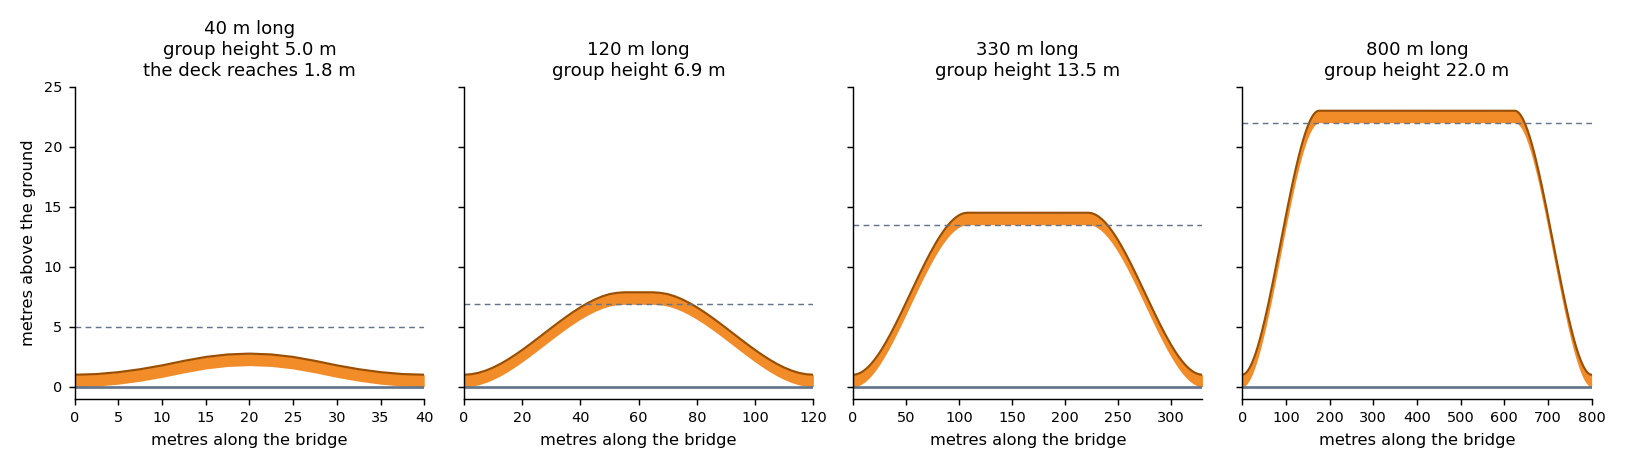
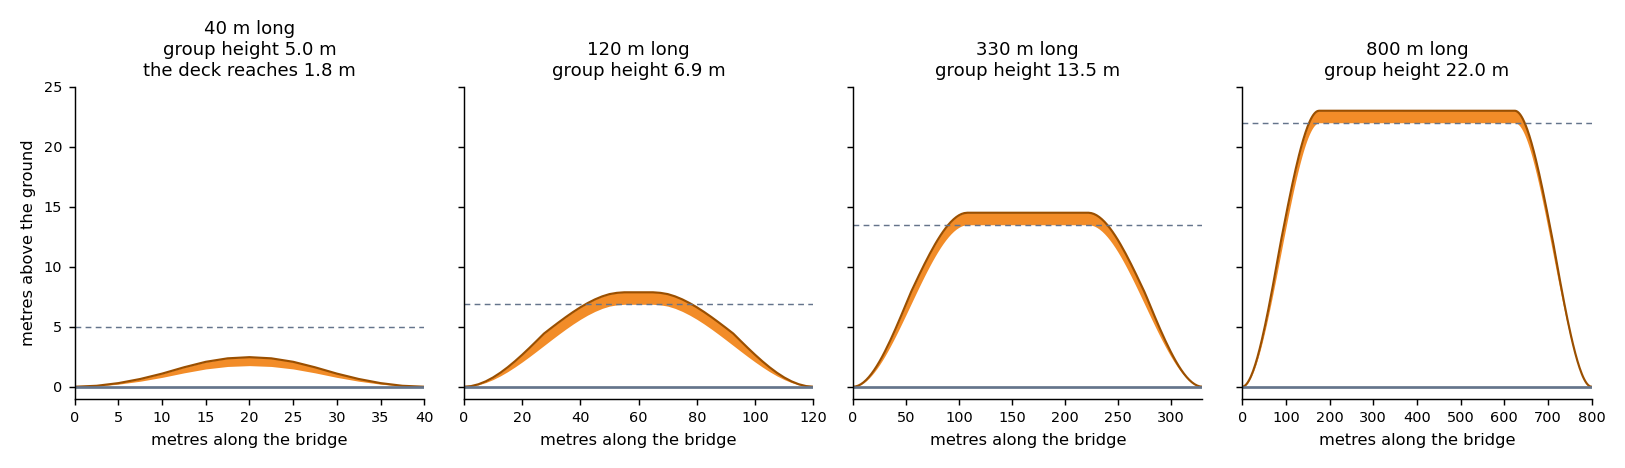
Bridge height page: the format of the profile, the formulas and the rules of an edit step
A real example of the profile (one piece with its polygon, and a table of pieces),
the formulas of each step, a worked example, the terrain formula of the page,
and what can change a profile. A test calculates the lift of every piece of four
bridges with the formulas of the page and compares it with the engine. The figure
shows the deck thin out at the ground, as the page draws it.

diff --git a/tests/test_render_web.py b/tests/test_render_web.py
@@ -2645,13 +2645,17 @@ def test_web_vehicles_option_and_look():
     assert _opt(render_edges(_edges(), backend="web").html, "vehicles") is None
 
 
-def _straight_bridge(length_m, **kw):
-    """The deck pieces of one straight bridge of `length_m` metres (no casing slabs), in order along it, with the settings of `kw`."""
+def _bridge_source_features(length_m, **kw):
+    """All the features of the source `decks` of one straight bridge of `length_m` metres (a deck piece, then its two casing slabs), in the order of the source."""
     import math
     dlon = length_m / (111320 * math.cos(math.radians(43.74)))
     g = gpd.GeoDataFrame({"highway": ["primary"], "bridge": ["yes"], "layer": ["1"], "edge_id": [1]}, geometry=[LineString([(7.42, 43.74), (7.42 + dlon, 43.74)])], crs=4326)
-    html = render_edges(g, backend="web", view_3d=True, **kw).html
-    pieces = [f["properties"] for f in _style(html)["sources"]["decks"]["data"]["features"] if not f["properties"].get("__rs_casing_slab")]
+    return _style(render_edges(g, backend="web", view_3d=True, **kw).html)["sources"]["decks"]["data"]["features"]
+
+
+def _straight_bridge(length_m, **kw):
+    """The deck pieces of one straight bridge (no casing slabs): their properties, in order along it, with the settings of `kw`."""
+    pieces = [f["properties"] for f in _bridge_source_features(length_m, **kw) if not f["properties"].get("__rs_casing_slab")]
     return sorted(pieces, key=lambda p: p["__rs_s0"])
 
 
@@ -2660,15 +2664,66 @@ def _flat_part_starts(length_m, **kw):
     return min(p["__rs_s0"] for p in _straight_bridge(length_m, **kw) if p["__rs_lift0"] >= 0.999) * length_m
 
 
+def _lift_of_the_page(x, ell, ramp, lift_head=0.0, lift_tail=0.0, k=0.4):
+    """The lift at the distance x along a chain of ell metres, by the formulas of docs/guides/bridge-height.md (step 5): a and b, the smooth minimum with the weight w, the smoothstep."""
+    def clamp(v, lo, hi):
+        return max(lo, min(hi, v))
+
+    a, b = lift_head + x / ramp, lift_tail + (ell - x) / ramp
+    e = max(0.15 * ell, 1.0)
+    v = min(clamp(x / e, 0, 1), clamp((ell - x) / e, 0, 1))
+    w = v * v * (3 - 2 * v)
+    h = max(k - abs(a - b), 0) / k
+    t = clamp(min(a, b) - w * h * h * k / 4, 0, 1)
+    return t * t * (3 - 2 * t)
+
+
 def test_the_numbers_of_the_bridge_height_page_are_the_engines():
-    """docs/guides/bridge-height.md: the group heights of its table, the ramp of 8 m for each metre of height, the hump of a bridge of 40 m, the 1 m of the deck and the
-    effect of ramp_m. A change of a rule fails here, and the page and docs/img/bridge-height/make.py are changed with it."""
+    """docs/guides/bridge-height.md: the group heights of its table, the ramp of 8 m for each metre of height, the hump of a bridge of 40 m, the effect of ramp_m, the formulas of
+    step 5 (the lift of every piece of four bridges), the worked example, the example profile and the rules of an edit step. A change of a rule fails here, and the page and
+    docs/img/bridge-height/make.py are changed with it."""
     for length, height in ((60, 5.0), (120, 6.89), (330, 13.5), (600, 22.0), (800, 22.0)):
         assert _straight_bridge(length)[0]["__rs_full"] == pytest.approx(height, abs=0.02), length
     short = _straight_bridge(40)
-    names = {"__rs_group", "__rs_chain", "__rs_full", "__rs_lift0", "__rs_lift1", "__rs_s0", "__rs_s1", "__rs_thick", "__rs_edges", "__rs_base", "__rs_height"}
-    assert names <= set(short[0]) and "__rs_enda" in short[0] and "__rs_endb" in short[-1]                # the profile's properties of the page's table
     assert max(p["__rs_base"] for p in short) == pytest.approx(1.76, abs=0.03)                          # "its deck rises only 1.8 m at the middle"
-    assert {round(p["__rs_height"] - p["__rs_base"], 6) for p in short} == {1.0}                          # the deck is 1 m thick
+    assert {round(p["__rs_height"] - p["__rs_base"], 6) for p in short} == {1.0}                          # __rs_height = __rs_base + thickness_m
+    names = {"__rs_group", "__rs_chain", "__rs_full", "__rs_lift0", "__rs_lift1", "__rs_s0", "__rs_s1", "__rs_thick", "__rs_edges", "__rs_base", "__rs_height"}
+    assert names <= set(short[0]) and "__rs_enda" in short[0] and "__rs_endb" in short[-1]                # the table of the page
+    assert not any("__rs_enda" in p or "__rs_endb" in p for p in short[1:-1]) and "__rs_endb" not in short[0] and "__rs_enda" not in short[-1]
     assert _flat_part_starts(800) == pytest.approx(176, abs=3)                                           # 22 m x 8 m = 176 m of ramp (a piece is 2.5 m long)
     assert _flat_part_starts(800, settings={"config": {"bridge_decks": {"ramp_m": 80}}}) == pytest.approx(352, abs=3)    # the example of the page: 22 m x 16 m
+    # step 5: the engine's lift of every piece (its start, its end and its base at the middle) is the page's formula
+    for length in (40, 120, 330, 800):
+        pieces = _straight_bridge(length)
+        full = pieces[0]["__rs_full"]
+        ramp = max(full * 8, 1.0)
+        assert {p["__rs_full"] for p in pieces} == {full}, length                                           # one height for the group
+        for p in pieces:
+            x0, x1 = p["__rs_s0"] * length, p["__rs_s1"] * length
+            assert p["__rs_lift0"] == pytest.approx(_lift_of_the_page(x0, length, ramp), abs=3e-4), (length, x0)
+            assert p["__rs_lift1"] == pytest.approx(_lift_of_the_page(x1, length, ramp), abs=3e-4), (length, x1)
+            assert p["__rs_base"] == pytest.approx(full * _lift_of_the_page((x0 + x1) / 2, length, ramp), abs=0.02), (length, x0)
+        # the rules of an edit step: no gap, no step, the lift is 0 at a free end
+        assert pieces[0]["__rs_s0"] == 0 and pieces[-1]["__rs_s1"] == 1 and pieces[0]["__rs_lift0"] == 0 and pieces[-1]["__rs_lift1"] == 0
+        for p, q in zip(pieces, pieces[1:], strict=False):
+            assert p["__rs_s1"] == q["__rs_s0"] and p["__rs_lift1"] == q["__rs_lift0"], (length, p["__rs_s1"])
+    # the worked example (a bridge of 120 m, x = 10 m) and the table of the page
+    full, ramp = 5 + 17 * 60 / 540, (5 + 17 * 60 / 540) * 8
+    assert (full, ramp, 10 / ramp, 110 / ramp) == pytest.approx((6.889, 55.11, 0.1815, 1.996), abs=0.002)
+    assert _lift_of_the_page(10, 120, ramp) == pytest.approx(0.0868, abs=0.0001) and full * 0.0868 == pytest.approx(0.60, abs=0.01)
+    pieces = _straight_bridge(120)
+    assert len(pieces) == 47
+    for n, (s0, s1, l0, l1) in {1: (0, 0.02083, 0, 0.006), 4: (0.0625, 0.08333, 0.0505, 0.0868), 5: (0.08333, 0.10417, 0.0868, 0.131), 24: (0.45926, 0.54074, 0.9972, 0.9972),
+                                46: (0.95833, 0.97917, 0.0232, 0.006), 47: (0.97917, 1, 0.006, 0)}.items():
+        p = pieces[n - 1]
+        assert (p["__rs_s0"], p["__rs_s1"]) == pytest.approx((s0, s1), abs=1e-5) and (p["__rs_lift0"], p["__rs_lift1"]) == pytest.approx((l0, l1), abs=1e-4), n
+    # the example profile: the first piece, with its polygon, and the order of the source (a deck piece, then its two casing slabs)
+    feats = _bridge_source_features(120)
+    first = feats[0]
+    assert [bool(f["properties"].get("__rs_casing_slab")) for f in feats[:6]] == [False, True, True, False, True, True]
+    assert first["geometry"]["coordinates"] == [[[7.42, 43.740022], [7.420031, 43.740022], [7.420031, 43.739978], [7.42, 43.739978], [7.42, 43.740022]]]
+    p = first["properties"]
+    assert (p["__rs_group"], p["__rs_chain"], p["__rs_thick"], p["__rs_base"], p["__rs_height"], p["__rs_edges"], p["__rs_enda"]) == (1, 1, 1.0, 0.01, 1.01, [0], [7.42, 43.74])
+    assert p["__rs_full"] == pytest.approx(6.8889, abs=1e-4)
+    slab = feats[1]["properties"]
+    assert slab["__rs_casing_slab"] == 1 and all(slab[k] == p[k] for k in ("__rs_group", "__rs_chain", "__rs_full", "__rs_lift0", "__rs_lift1", "__rs_s0", "__rs_s1"))   # a slab has the lifts and places of its piece

diff --git a/docs/img/bridge-height/make.py b/docs/img/bridge-height/make.py
@@ -4,7 +4,7 @@ one straight bridge of four lengths, as the Rust engine makes it with the defaul
     python docs/img/bridge-height/make.py
 
 Each deck piece has its start and end lift (`__rs_lift0`, `__rs_lift1`) and its place along the bridge (`__rs_s0`, `__rs_s1`); the underside of the deck
-is the group height `__rs_full` times the lift, and the top is `thickness_m` above it."""
+is the group height `__rs_full` times the lift. The page makes the deck thin out to nothing at the ground: the top is `thickness_m` x min(1, 2 x lift) above the underside."""
 import json
 import math
 import warnings
@@ -42,11 +42,12 @@ def main():
     for ax, length in zip(axes, LENGTHS):
         pieces = deck_pieces(length)
         full, thick = pieces[0]["__rs_full"], pieces[0]["__rs_thick"]
-        xs, under = [], []
+        xs, under, top = [], [], []
         for p in pieces:
-            xs += [p["__rs_s0"] * length, p["__rs_s1"] * length]
-            under += [full * p["__rs_lift0"], full * p["__rs_lift1"]]
-        top = [u + thick for u in under]
+            for s, lift in ((p["__rs_s0"], p["__rs_lift0"]), (p["__rs_s1"], p["__rs_lift1"])):
+                xs.append(s * length)
+                under.append(full * lift)
+                top.append(full * lift + thick * min(1.0, 2.0 * lift))
         ax.fill_between(xs, under, top, color="#f28c28", linewidth=0)
         ax.plot(xs, top, color="#9a4f00", linewidth=1.2)
         ax.axhline(0, color="#64748b", linewidth=1.5)

diff --git a/docs/guides/bridge-height.md b/docs/guides/bridge-height.md
@@ -1,7 +1,7 @@
 # How the height of a 3D bridge is calculated
 
 With `view_3d=True`, roadstyle draws each bridge as a raised deck. The deck rises from the ground along a ramp, stays at one height, and comes down again.
-Two programs make this picture, one after the other. This page explains what each program does. To switch the bridges on or off, read [Bridges in 3D](style.md#bridges-in-3d).
+Two programs make this picture, one after the other. This page explains what each program does and gives the formulas. To switch the bridges on or off, read [Bridges in 3D](style.md#bridges-in-3d).
 
 ## Two parts: the engine makes the profile, the page draws it
 
@@ -10,25 +10,84 @@ Two programs make this picture, one after the other. This page explains what eac
 2. **The page** (`bridgemesh.js`) runs in the browser. It reads the profile, adds the height of the ground, and draws the pieces as one mesh.
    The page does not find groups and does not calculate group heights.
 
-The profile of a group is the values that each deck piece carries.
+## The format of the profile
 
-| Property of a piece | Meaning |
+The profile is a GeoJSON `FeatureCollection` in the source `decks` of the style. It is plain data in the page. Each deck piece is one `Feature`: a polygon (the outline of the piece on the map) and its properties.
+After each deck piece, the source holds the two casing slabs of that piece. A casing slab has `__rs_casing_slab: 1` and the same group, chain, lift and place values.
+
+This is the first piece of a straight bridge of 120 m with the default look. The numbers are rounded to 4 digits. `…` marks the properties that are the road's own columns and the colors and widths of its look.
+
+```json
+{
+  "type": "Feature",
+  "properties": {
+    "highway": "primary", "bridge": "yes", "layer": "1", "edge_id": 1,
+    "…": "the road's columns and the look values",
+    "__rs_group": 1,
+    "__rs_chain": 1,
+    "__rs_full": 6.8889,
+    "__rs_thick": 1.0,
+    "__rs_lift0": 0.0,
+    "__rs_lift1": 0.006,
+    "__rs_s0": 0.0,
+    "__rs_s1": 0.02083,
+    "__rs_base": 0.01,
+    "__rs_height": 1.01,
+    "__rs_enda": [7.42, 43.74],
+    "__rs_edges": [0]
+  },
+  "geometry": {
+    "type": "Polygon",
+    "coordinates": [[[7.42, 43.740022], [7.420031, 43.740022], [7.420031, 43.739978], [7.42, 43.739978], [7.42, 43.740022]]]
+  }
+}
+```
+
+| Property | Meaning |
 |---|---|
 | `__rs_group` | The number of the group |
 | `__rs_chain` | The number of the chain (a line of bridge roads, see step 2) |
 | `__rs_full` | The group height H, in metres |
+| `__rs_thick` | The thickness of the deck, in metres |
 | `__rs_lift0`, `__rs_lift1` | The lift at the start and at the end of the piece, from 0 (ground) to 1 (H) |
 | `__rs_s0`, `__rs_s1` | Where the piece starts and ends along its chain, from 0 to 1 |
-| `__rs_thick` | The thickness of the deck, in metres |
-| `__rs_enda`, `__rs_endb` | The two end nodes of the chain (on its first and its last piece) |
+| `__rs_base`, `__rs_height` | The underside and the top of the piece at its middle, without terrain. The page uses them for clicks |
+| `__rs_enda`, `__rs_endb` | The two end nodes of the chain, as longitude and latitude. Only the first piece has `__rs_enda`, and only the last piece has `__rs_endb` |
 | `__rs_edges` | The roads of the piece |
 
-A piece also has its outline on the map. `__rs_base` and `__rs_height` are the underside and the top of the piece at its middle, without terrain. The page uses them for clicks.
 The names with `__rs_` are internal names of the engine. They can change.
+
+The bridge of 120 m has 47 deck pieces. These are the values that matter, for the first five pieces, the middle piece and the last two pieces.
+
+| Piece | `__rs_s0` | `__rs_s1` | `__rs_lift0` | `__rs_lift1` |
+|---|---|---|---|---|
+| 1 | 0 | 0.02083 | 0 | 0.006 |
+| 2 | 0.02083 | 0.04167 | 0.006 | 0.0232 |
+| 3 | 0.04167 | 0.0625 | 0.0232 | 0.0505 |
+| 4 | 0.0625 | 0.08333 | 0.0505 | 0.0868 |
+| 5 | 0.08333 | 0.10417 | 0.0868 | 0.131 |
+| … | | | | |
+| 24 | 0.45926 | 0.54074 | 0.9972 | 0.9972 |
+| … | | | | |
+| 46 | 0.95833 | 0.97917 | 0.0232 | 0.006 |
+| 47 | 0.97917 | 1 | 0.006 | 0 |
+
+The pieces join with no gap. The end lift of one piece is the start lift of the next piece, and `__rs_s1` of one piece is `__rs_s0` of the next. The pieces of a ramp are short (2.5 m).
+The piece on the flat part is long.
 
 ## Part 1. The engine calculates the profile
 
-The engine works in five steps. Each step uses the result of the step before it.
+The engine works in five steps. Each step uses the result of the step before it. These symbols are in the formulas.
+
+| Symbol | Meaning |
+|---|---|
+| L | The length of a group, in metres |
+| H | The group height, in metres |
+| g | The grade: metres of ramp for 1 m of height |
+| R | The full ramp: metres of ramp for the full height |
+| ℓ | The length of a chain, in metres |
+| x | The distance along a chain from its start, in metres |
+| lift | The part of H that the deck has, from 0 to 1 |
 
 ### 1. Find the 3D bridges
 
@@ -45,15 +104,20 @@ A node where three or more bridge roads meet is the end of a chain.
 
 A free end is a node where only one bridge road ends. The deck meets the ground at a free end.
 
+The length of a road is the sum of its segments in metres. The length of a group, L, is the sum of the lengths of its roads. A two-way pair counts one time.
+
 ### 3. Give each group a height
 
 The group height, H, is the height of the deck above the ground on its flat part. The engine finds H in one of two ways.
 
-**From the length of the group.** This is the default. The length of a group is the sum of the lengths of its roads. A two-way pair counts one time. A long bridge crosses something wide, so it stands higher.
+**From the length of the group.** This is the default. A long bridge crosses something wide, so it stands higher.
 
-- Up to 60 m (`grow_from_m`), H is 5 m (`base_m`).
-- From 600 m (`grow_to_m`), H is 22 m (`max_m`).
-- Between 60 m and 600 m, H grows on a straight line: H = 5 + 17 × (length − 60) ÷ 540.
+```text
+u = clamp( (L − grow_from_m) ÷ (grow_to_m − grow_from_m), 0, 1 )
+H = base_m + (max_m − base_m) × u
+```
+
+With the default look, `base_m` is 5, `max_m` is 22, `grow_from_m` is 60 and `grow_to_m` is 600. So H = 5 + 17 × (L − 60) ÷ 540 between 60 m and 600 m. If `grow_to_m` is not larger than `grow_from_m`, H is `base_m`.
 
 | Length of the group | H |
 |---|---|
@@ -69,10 +133,14 @@ Two different values in one group are an error. For the keywords, read [Every pa
 
 The height at a node is a lift from 0 to 1. Lift 0 is the ground. Lift 1 is H.
 
-1. Find the grade: `ramp_m` ÷ `base_m`. With the default look, the grade is 40 ÷ 5 = 8. The deck needs 8 m of ramp for each 1 m of height.
-2. Find the full ramp: H × the grade, but at least 1 m. A group of 5 m has a full ramp of 40 m. A group of 13.5 m has 108 m. A group of 22 m has 176 m.
-3. For each node, find the distance along the roads to the nearest free end of its group.
-4. Divide that distance by the full ramp. The result is the lift at the node, but not more than 1.
+```text
+g = ramp_m ÷ base_m                 (the default: 40 ÷ 5 = 8)
+R = max( H × g, 1 )                 (in metres)
+node lift = min( 1, d_free ÷ R )
+```
+
+`d_free` is the distance along the roads from the node to the nearest free end of its group. It is 0 at a free end. The engine finds it with a shortest-path search from all the free ends.
+A group of 5 m has a full ramp of 40 m. A group of 13.5 m has 108 m. A group of 22 m has 176 m.
 
 The lift belongs to the node and not to the road. For this reason, two chains that meet at a node have the same height there.
 A node with no free end in its group, for example in a closed loop, has lift 1.
@@ -82,55 +150,106 @@ Its deck rises only 1.8 m at the middle. A short bridge has a low, round hump an
 
 ### 5. Calculate the curve between the nodes, and cut it into pieces
 
-Inside a chain, the engine finds the lift at each distance d along the chain.
+Inside a chain, the engine finds the lift at each distance x along the chain. Let `lift_head` and `lift_tail` be the node lifts at the two ends of the chain.
 
-1. Start from each end node. Take the lift of the node and add the distance from that end divided by the full ramp.
-2. Take the smaller of the two values. The deck rises from each end and stops at 1.
-3. Round the place where the two values meet. Where they are within 0.4 of each other, the smaller value drops by up to 0.1. This is a smooth minimum.
-   A short bridge gets a round top and no ridge. The rounding fades out over the last 15 % of the chain at each end, so the lift at a node is exact.
-4. Keep the result from 0 to 1.
-5. Smooth the result with t × t × (3 − 2t). Each ramp gets a soft start on the ground and a soft end at the flat part.
+```text
+a = lift_head + x ÷ R                  from the head end
+b = lift_tail + (ℓ − x) ÷ R            from the tail end
 
-The underside of the deck is H × the lift. The top is `thickness_m` (1 m) above the underside.
+k = 0.4
+e = max( 0.15 × ℓ, 1 )
+v = min( clamp(x ÷ e, 0, 1), clamp((ℓ − x) ÷ e, 0, 1) )
+w = v × v × (3 − 2v)                   the weight: 0 at the ends, 1 inside
+h = max( k − |a − b|, 0 ) ÷ k
+t = min(a, b) − w × h × h × k ÷ 4      smooth minimum
+t = clamp(t, 0, 1)
 
-The engine then cuts the chain into pieces. On a ramp, a piece is at most `step_m` (2.5 m) long. A piece also ends where one road changes to the next.
-For each piece, the engine writes the lift at its start and at its end (`__rs_lift0`, `__rs_lift1`). These pieces are the profile.
+lift(x) = t × t × (3 − 2t)
+```
+
+The steps in words:
+
+1. Each end gives a lift that rises with the distance from that end (`a` and `b`).
+2. The smaller of the two values is the lift. The deck rises from each end and stops at 1.
+3. Where `a` and `b` are within `k` of each other, the smooth minimum rounds the place where they meet. It lowers the value by up to `k ÷ 4`, which is 0.1.
+   A short bridge gets a round top and no ridge. The weight `w` is 0 at the two ends of the chain, so the lift at a node is exact.
+4. The last line, t × t × (3 − 2t), gives each ramp a soft start on the ground and a soft end at the flat part.
+
+The underside and the top of the deck, without terrain:
+
+```text
+underside(x) = H × lift(x)
+top(x)       = underside(x) + thickness_m × min( 1, 2 × lift(x) )
+```
+
+The thickness `thickness_m` is 1 m by default. The factor `min(1, 2 × lift)` makes the deck thin out to nothing at the ground, so the end of a ramp lands flush with the road.
+
+**A worked example.** A straight bridge of 120 m has two free ends. L = ℓ = 120 m, so H = 5 + 17 × 60 ÷ 540 = 6.889 m and R = 6.889 × 8 = 55.11 m.
+At x = 10 m: a = 10 ÷ 55.11 = 0.1815 and b = 110 ÷ 55.11 = 1.996. The two values are far apart, so h = 0 and t = 0.1815.
+Then lift = 0.1815 × 0.1815 × (3 − 0.363) = 0.0868, and the underside is 6.889 × 0.0868 = 0.60 m. This is the value `__rs_lift0` of piece 5 in the table above.
+
+The engine then cuts the chain into pieces. The cut points are the two ends of the chain, the end of each ramp, and every `step_m` (2.5 m) along each ramp. A piece also ends where one road changes to the next.
+For each piece, the engine writes `__rs_lift0 = lift(x_start)`, `__rs_lift1 = lift(x_end)`, `__rs_s0 = x_start ÷ ℓ` and `__rs_s1 = x_end ÷ ℓ`.
+It writes `__rs_base = H × lift(x_middle)` and `__rs_height = __rs_base + thickness_m`. These pieces are the profile.
 
 ![The profile of a straight bridge for four lengths](../img/bridge-height/profile.png)
 
-The figure shows the profile of one straight bridge for four lengths. The engine made it with the default look. The orange band is the deck, which is 1 m thick.
-The dashed line is H. Make the figure again with `python docs/img/bridge-height/make.py`.
+The figure shows the profile of one straight bridge for four lengths. The engine made it with the default look. The orange band is the deck. The dashed line is H.
+Make the figure again with `python docs/img/bridge-height/make.py`.
 
 ## Part 2. The page draws the profile
 
-The page reads the pieces from the source `decks`. It does not calculate the lift of a piece again.
+The page reads the pieces from the source `decks`. It does not calculate the lift of a piece again. For each piece, the page makes triangles: a top, two side walls and a bottom.
+It draws all pieces in one custom layer, as one smooth mesh. Inside a piece, the lift at a vertex is a straight line from `__rs_lift0` to `__rs_lift1`, by the distance along the piece.
 
 ### 6. Put the deck on the terrain
 
-Without terrain, the ground height is 0, and the underside is H × the lift. When the 3D terrain is on, the page changes this in four ways.
+Without terrain, the ground height is 0, and the formulas of step 5 give the height of each vertex. When the 3D terrain is on, the page uses these values for each vertex of each side of the deck.
 
-- The page reads the ground height at the two end nodes of each chain (`__rs_enda`, `__rs_endb`) from the terrain tiles of the page.
-- The deck is level between those two ground heights. The underside is that level line plus H × the lift.
-- Close to the ground, the deck follows the ground under each side of its width, because a hill can slope sideways.
-  As the lift rises, the height changes from the ground to the level line.
-- A small gap keeps the start of a ramp above the terrain that the map draws. The gap is 0.3 m plus 2.5 m for each 1 m of slope. It fades out as the deck rises.
+```text
+G      the ground height under the vertex
+C      the gap = 0.3 + 2.5 × slope          (metres)
+Z      the level line = za + (zb − za) × s
+       (za, zb: the ground at the two ends of the chain; s: the place along it, 0 to 1)
+
+underside = (1 − lift) × (G + C) + lift × (Z + H)
+top       = underside + thickness_m × min( 1, 2 × lift )
+```
+
+- Close to the ground (lift near 0), the deck follows the ground under each side of its width, because a hill can slope sideways.
+- From the flat part up (lift near 1), the deck is level across its width, between the ground at the two ends of the chain.
+- The slope in `C` is the slope of the terrain, read 4 m to each side of the vertex. The gap keeps the start of a ramp above the terrain that the map draws. It fades out as the lift rises.
+- Without terrain, G, C and Z are 0, and the underside is H × lift.
 
 If a terrain tile has not arrived, the page does not draw the chains that need it. It draws them when the tile arrives.
 
-### How the page draws a piece
+### The other work of the page
 
-For each piece, the page makes triangles: a top that slopes from the start lift to the end lift, two side walls and a bottom. It draws all pieces in one custom layer, as one smooth mesh.
-The casing is a thin slab along each long side of the deck.
+The casing is a thin slab along each long side of the deck. The extrusion layers of the decks stay in the map with opacity 0. A click or a hover finds the bridge on them. The Street View marker stands on the deck.
 
-The extrusion layers of the decks stay in the map with opacity 0. A click or a hover finds the bridge on them. The Street View marker stands on the deck.
+## What can change a profile
 
-## What the height is not
+Four things change a profile today.
 
-The height is a rule for the picture and not a measurement. The engine does not read a `height` or `maxheight` tag to find H.
-Two bridges of the same length get the same H.
+| What | When | What changes |
+|---|---|---|
+| `bridge_heights`, `bridge_height_col` | When you make the page | H of a group. The engine makes the ramps again for the new H |
+| `bridge_decks` setting | When you make the page | Any number in the formulas: for example `ramp_m`, `base_m`, `thickness_m` |
+| `rsSetBridgeHeight(road, metres)` | In the open page | H of a group. The page keeps the lifts, so the ramps keep the length that they had with the first height |
+| `rsSetBridges3D(false)` | In the open page | The bridges are flat lines |
 
-To draw a measured height, use `bridge_heights` or `bridge_height_col`. `rsSetBridgeHeight(road, metres)` changes H in the open page.
-The page keeps the lifts of the pieces, so the ramps keep the length that they had with the first height.
+The engine does not read a `height` or `maxheight` tag to find H. The height is a rule for the picture and not a measurement. Two bridges of the same length get the same H.
+
+A step that edits the pieces between the engine and the page must keep these rules, or the mesh shows a step or a gap:
+
+- The pieces of a chain cover 0 to 1 with no gap. `__rs_s1` of a piece is `__rs_s0` of the next piece, and the end lift of a piece is the start lift of the next piece.
+- Two chains that meet at a node have the same lift at that node.
+- The lift is 0 at a free end.
+- All pieces of a group have the same `__rs_full`.
+- `__rs_base` and `__rs_height` of a piece follow its lifts. The page uses them for clicks.
+- The casing slabs of a piece have the same lifts and places as the piece.
+
+A test (`test_the_numbers_of_the_bridge_height_page_are_the_engines`) keeps the formulas on this page equal to the engine. It calculates the lift of every piece of four bridges with these formulas and compares it with the engine.
 
 ## Settings that change the height
 
